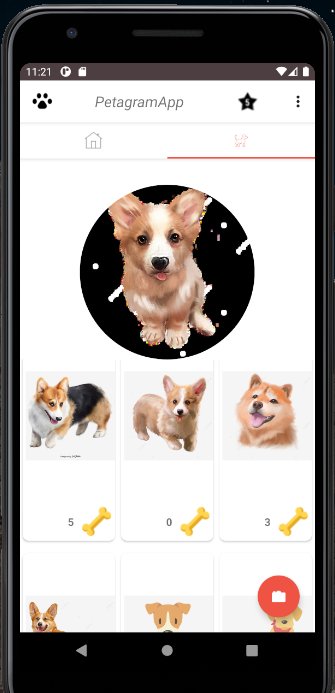
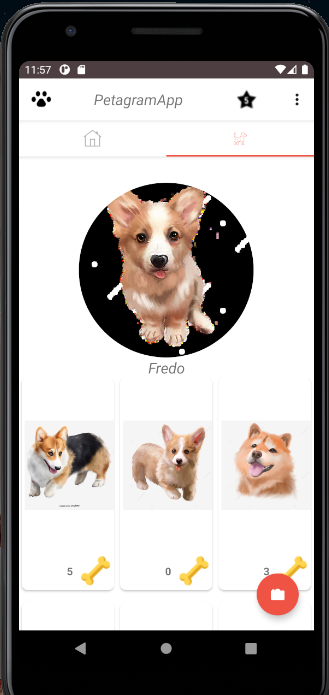
actualizacion nombre mascota

diff --git a/PetagramFragments/app/src/main/java/com/example/petagram/PerfilMascotaFragment.java b/PetagramFragments/app/src/main/java/com/example/petagram/PerfilMascotaFragment.java
@@ -5,6 +5,7 @@ import android.view.LayoutInflater;
 import android.view.View;
 import android.view.ViewGroup;
 import android.widget.ImageView;
+import android.widget.TextView;
 
 import androidx.fragment.app.Fragment;
 import androidx.recyclerview.widget.GridLayoutManager;
@@ -24,6 +25,7 @@ public class PerfilMascotaFragment extends Fragment {
     private ImageView imagePerfil;
     private RecyclerView recyclerPerfil;
     private ArrayList<Mascota> mascotaPerfil;
+    private TextView textViewNombre;
 
     @Override
     public View onCreateView(
@@ -33,9 +35,13 @@ public class PerfilMascotaFragment extends Fragment {
         View view =inflater.inflate(R.layout.fragment_perfil_mascota, container, false);
         imagePerfil = view.findViewById(R.id.imagePerfilMascota);
 
+        textViewNombre=view.findViewById(R.id.textNombreMascota);
+        textViewNombre.setText(getString(R.string.name_mascota));
+
         recyclerPerfil=view.findViewById(R.id.rvPerfilMascota);
         GridLayoutManager llm = new GridLayoutManager(getActivity(),3);
         recyclerPerfil.setLayoutManager(llm);
+
 
         addFab(view);
         loadImageBio();

diff --git a/PetagramFragments/app/src/main/java/com/example/petagram/MascotasActivity.java b/PetagramFragments/app/src/main/java/com/example/petagram/MascotasActivity.java
@@ -1,16 +1,7 @@
 package com.example.petagram;
 
-import android.annotation.SuppressLint;
-import android.content.Intent;
 import android.os.Bundle;
-import android.view.Menu;
-import android.view.MenuInflater;
-import android.view.MenuItem;
-import android.widget.ImageButton;
 
-import androidx.annotation.NonNull;
-import androidx.appcompat.app.AppCompatActivity;
-import androidx.appcompat.widget.Toolbar;
 import androidx.fragment.app.Fragment;
 import androidx.viewpager.widget.ViewPager;
 
